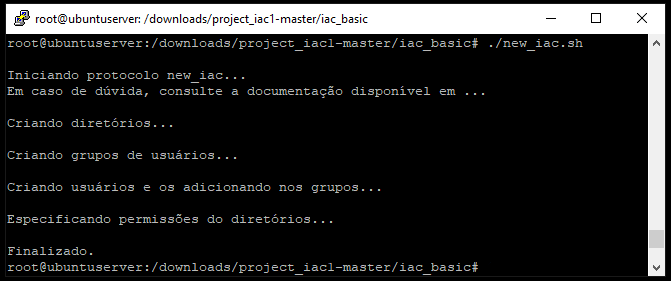
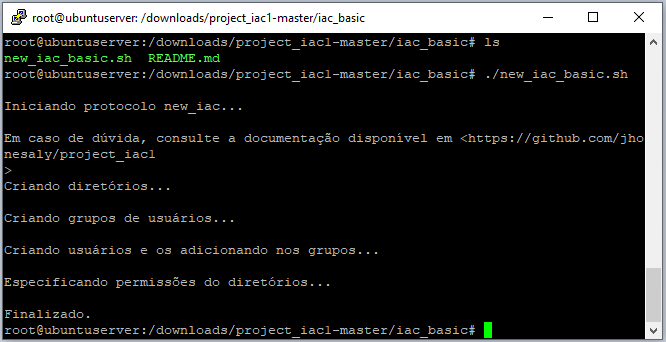
Update project_iac1

Changed region(s): [[0.0, 0.0, 1.0, 1.0]]

diff --git a/README.md b/README.md
@@ -116,13 +116,13 @@ Para utilizar os scripts na sua própria máquina, você pode fazer o seguinte:
     > mkdir downloads
     > cd downloads
 
-2 - Faça o download dos arquivos necessários no GitHub:
-
-    > wget https://github.com/jhonesaly/project_iac1/archive/refs/heads/master.zip
-
-3 - Caso sua máquina não tenha o apt unzip, o instale por meio de:
+2 - Caso sua máquina não tenha o apt unzip, o instale por meio de:
 
     > apt-get install unzip
+
+3 - Faça o download dos arquivos necessários no GitHub:
+
+    > wget https://github.com/jhonesaly/project_iac1/archive/refs/heads/master.zip
 
 4 - Descompacte o arquivo baixado.
 
@@ -134,8 +134,9 @@ Para utilizar os scripts na sua própria máquina, você pode fazer o seguinte:
 
 6 - Pronto, os scripts estão aptos a serem excutados. Escolha se quer executar o básico ou avançado, entre na pasta e execute o respectivo script. Por exemplo:
 
+    > cd project_iac1-master
     > cd iac_basic
-    > ./new_iac.sh
+    > ./new_iac_basic.sh
 
 7 - Para verificar os diretórios criados:
 
